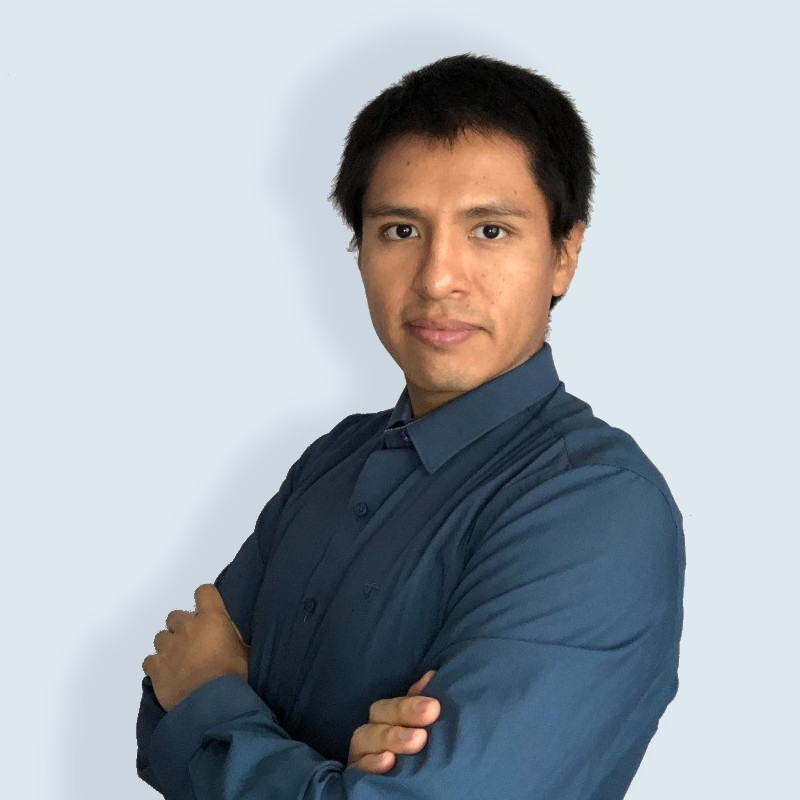
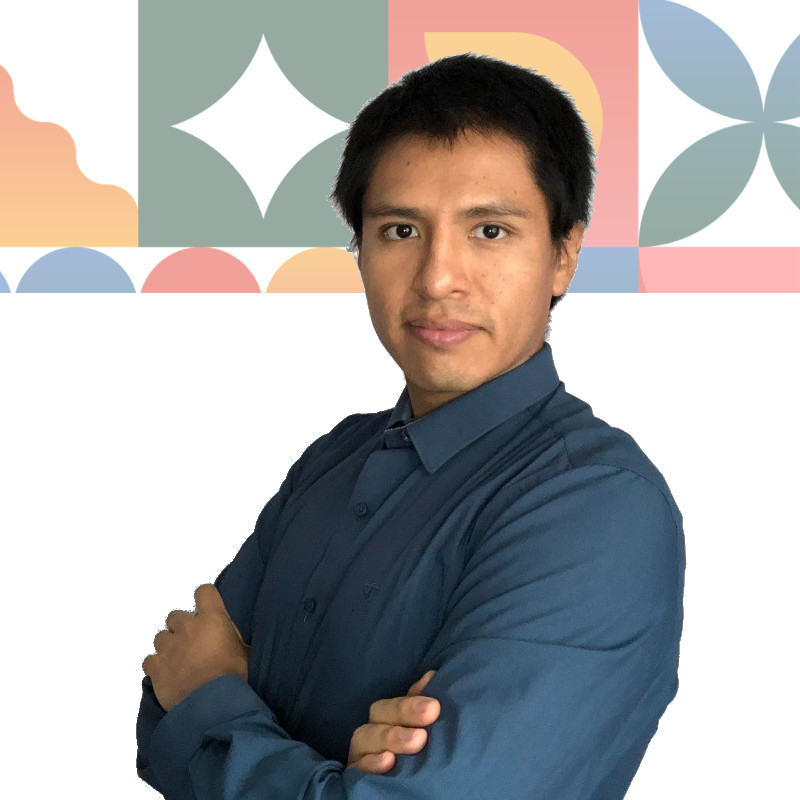
styles/ fondos cambiados

diff --git a/src/components/ComiteSection.tsx b/src/components/ComiteSection.tsx
@@ -102,7 +102,7 @@ export default function CommiteSection() {
                   <div className="red">
                     {member.instagram && (
                       <a
-                        className="btn btn-primary"
+                        className="btn btn-outline-primary"
                         href={member.instagram}
                         target="_blank"
                         rel="noopener noreferrer"
@@ -115,7 +115,7 @@ export default function CommiteSection() {
 
                     {member.linkedin && (
                       <a
-                        className="btn btn-primary"
+                        className="btn btn-outline-primary"
                         href={member.linkedin}
                         target="_blank"
                         rel="noopener noreferrer"

diff --git a/src/components/Header/TopBar.tsx b/src/components/Header/TopBar.tsx
@@ -3,7 +3,15 @@ export function TopBar() {
     <div className="container-fluid pt-3 d-none d-lg-block bg-light">
       <div className="container">
         <div className="row">
-          <div className="col-lg-6" />
+          <div className="col-lg-6">
+          <a
+                className="btn btn-outline-primary"
+                href="https://www.facebook.com/WFFPeruChapter"
+                aria-label="Facebook WFF Perú Chapter"
+              >
+                Unirme como Miembro
+              </a>
+          </div>
           <div className="col-lg-6 text-center text-lg-right">
             <div className="d-flex justify-content-end">
               <a

diff --git a/src/pages/inicio.tsx b/src/pages/inicio.tsx
@@ -40,7 +40,7 @@ export const Inicio: React.FC = () => {
       <ImageCardsBlock
         eyebrow="CONÓCENOS"
         title="¿Qué es un Capítulo Nacional?"
-        description="Es una plataforma independiente liderada por juventudes y organizaciones civiles. Su función es movilizar acción local alineada al WFF y en coordinación con FAO."
+        gitdescription="Es una plataforma independiente liderada por juventudes y organizaciones civiles. Su función es movilizar acción local alineada al WFF y en coordinación con FAO."        
         mainImage="/img/BloquesONU.jpg"
         cards={[
           { image: "/img/tarjetas1.jpg", alt: "Actividad WFF 1" },

diff --git a/src/App.css b/src/App.css
@@ -573,7 +573,8 @@ p.m-0.text-uppercase {
 
 .nav-2 {
   background: linear-gradient(to right, #e75733, #f7ae26);
-  height: 25px;
+  /* height: 25px; */
+  height: 10px;
   width: 100%;
   display: flex;
   align-items: center;
